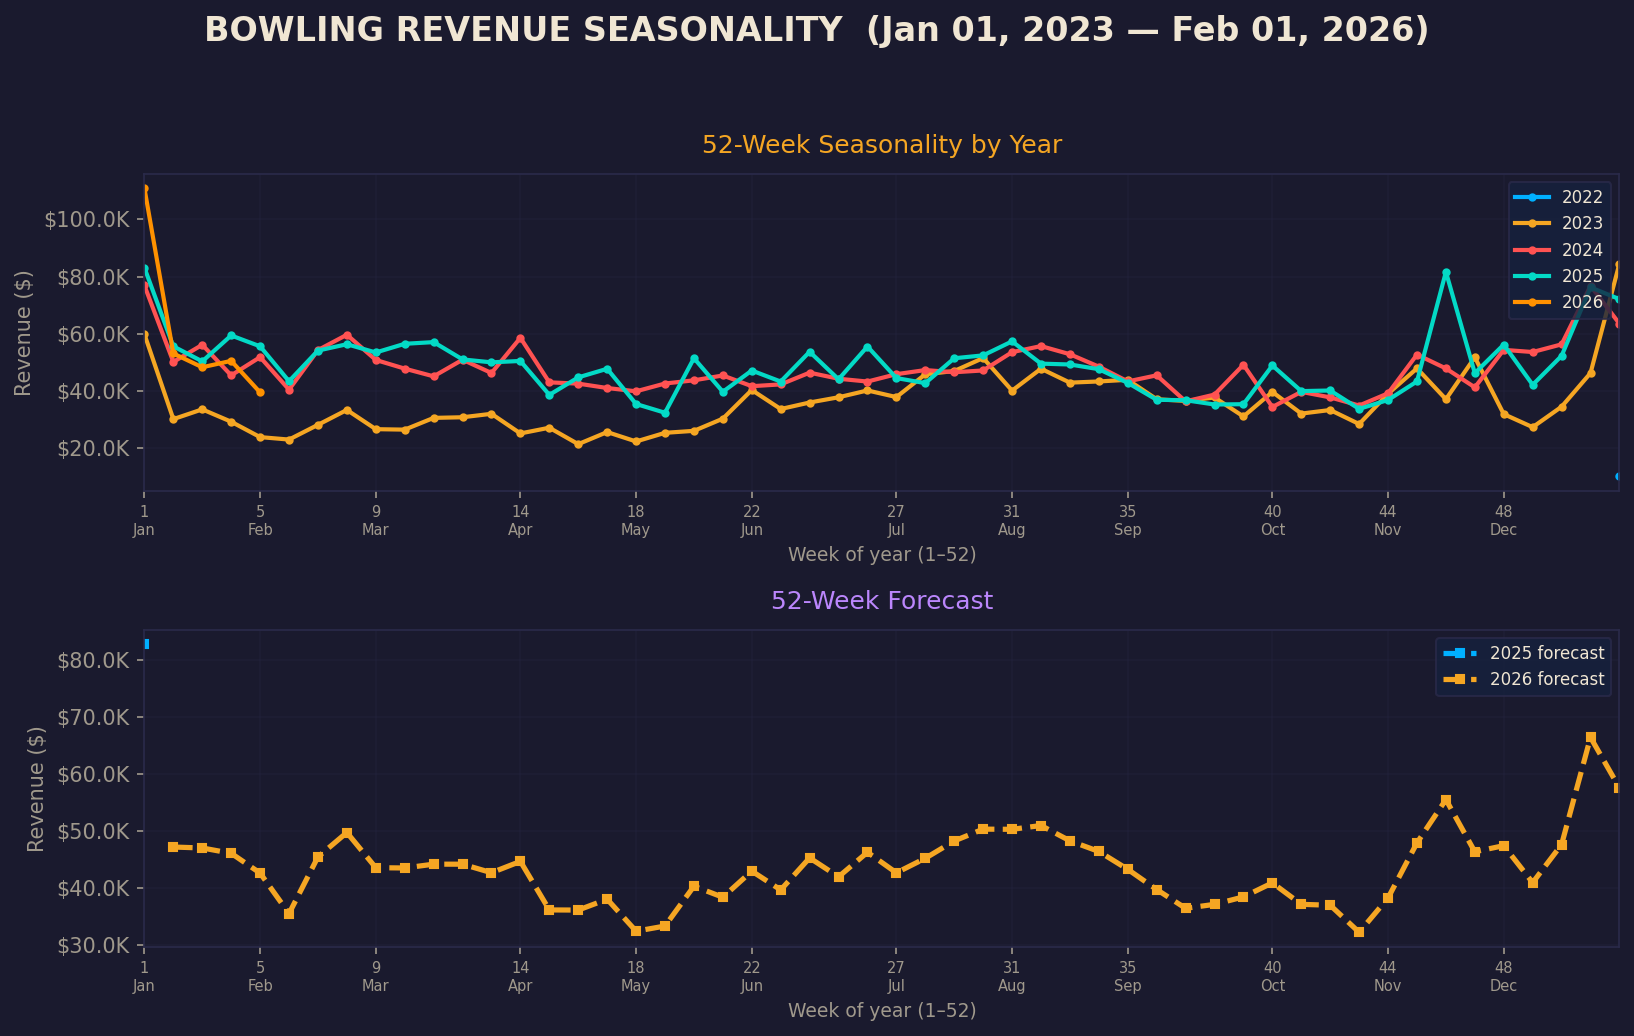
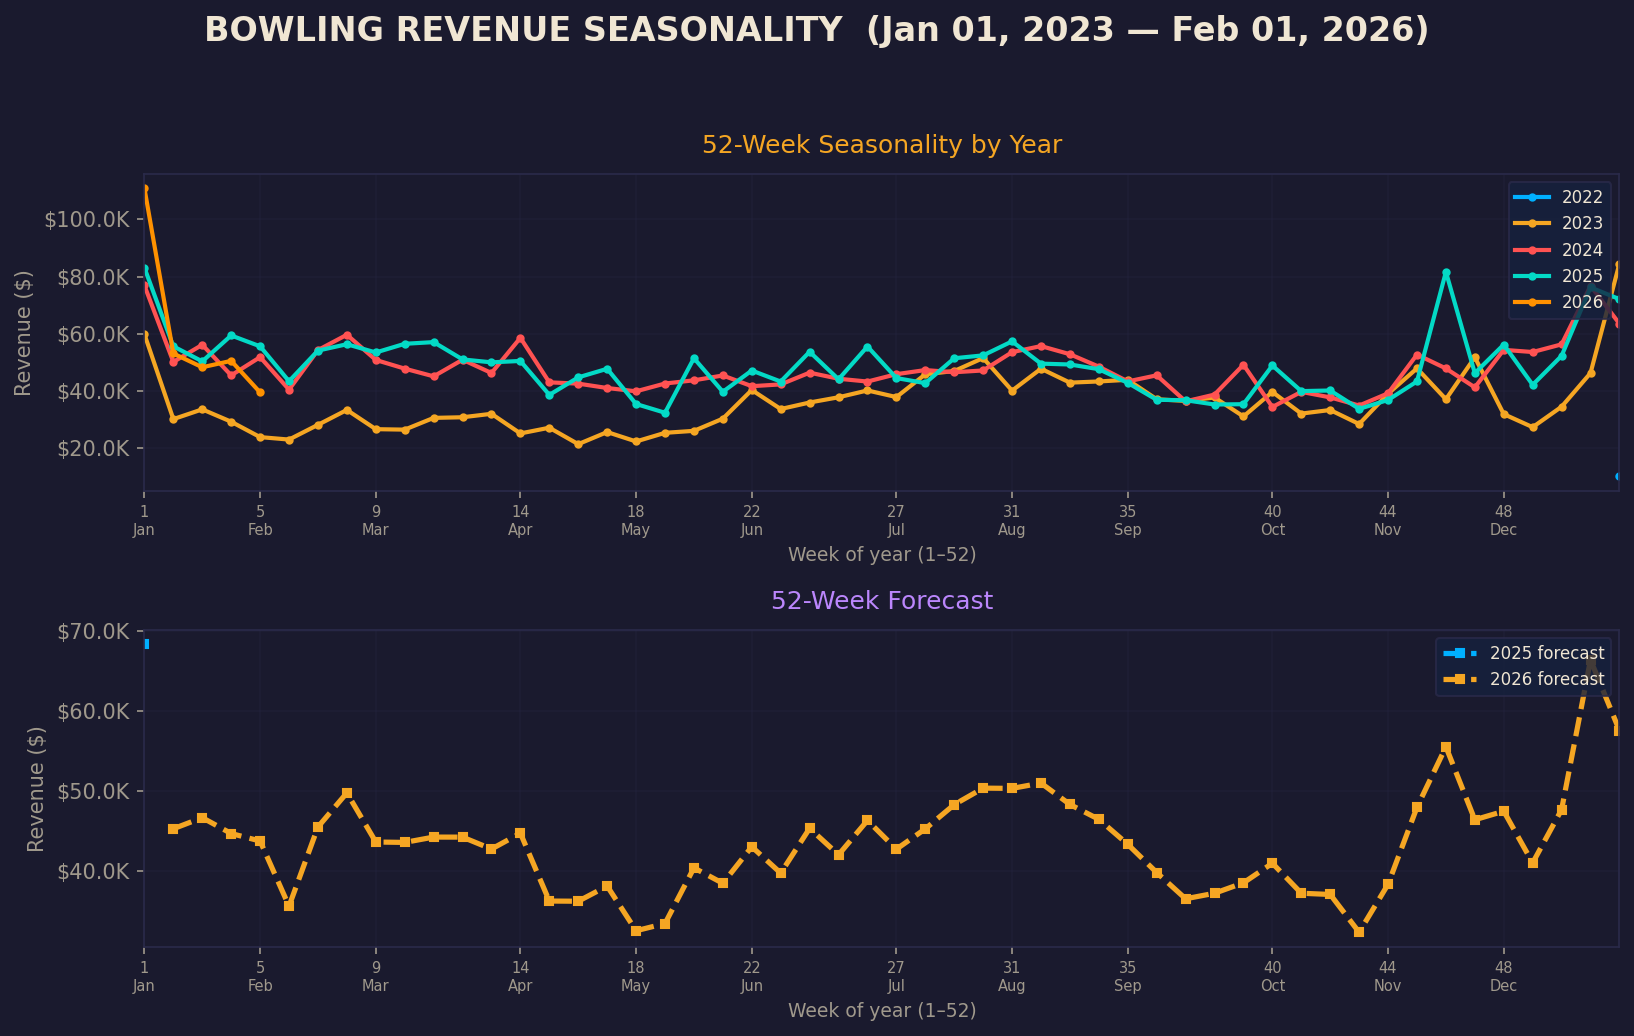
Fix forecast data leakage: exclude current year from seasonal mean

diff --git a/scripts/bowling_seasonality.py b/scripts/bowling_seasonality.py
@@ -132,14 +132,23 @@ def compute_weekly_forecast(weekly, by_year_week, num_future_weeks=4,
     If start_from_year is set, forecast a full 52 weeks from Jan 1 (week 1) of that year.
     Otherwise, forecast num_future_weeks starting from the week after last data.
     Returns list of (week_start, forecast_value).
+
+    IMPORTANT: When forecasting a year, we exclude that year from the seasonal mean
+    to avoid data leakage (using actuals to "predict" actuals).
     """
     week_starts = sorted(weekly.keys())
     if not week_starts:
         return []
 
-    # Fallback: flat 4-week moving average
-    recent_revs = [weekly[w] for w in week_starts[-lookback:]] if len(week_starts) >= lookback else list(weekly.values())
-    fallback_avg = statistics.mean(recent_revs) if recent_revs else 0
+    # Fallback: flat 4-week moving average. When forecasting a specific year,
+    # use only data from prior years to avoid leakage.
+    exclude_year = start_from_year
+    if exclude_year is not None:
+        historical_weeks = [w for w in week_starts if w.year < exclude_year]
+        fallback_revs = [weekly[w] for w in historical_weeks[-lookback:]] if historical_weeks else []
+    else:
+        fallback_revs = [weekly[w] for w in week_starts[-lookback:]] if len(week_starts) >= lookback else list(weekly.values())
+    fallback_avg = statistics.mean(fallback_revs) if fallback_revs else 0
 
     if start_from_year is not None:
         # Full year from Jan 1: start at Monday of week 1
@@ -154,10 +163,14 @@ def compute_weekly_forecast(weekly, by_year_week, num_future_weeks=4,
     for i in range(num_weeks):
         next_week = first_week + timedelta(days=7 * i)
         week_num = min(next_week.isocalendar()[1], 52)
+        forecast_year = next_week.year
 
-        # Collect historical revenue for this week-of-year across all years
+        # Collect historical revenue for this week-of-year across PRIOR years only.
+        # Exclude the forecast year to prevent data leakage.
         seasonal_values = []
-        for year_data in by_year_week.values():
+        for year, year_data in by_year_week.items():
+            if year >= forecast_year:
+                continue  # Don't use current/future year when predicting it
             if week_num in year_data and year_data[week_num] > 0:
                 seasonal_values.append(year_data[week_num])
 

diff --git a/scripts/bowling_sarima.py b/scripts/bowling_sarima.py
@@ -282,7 +282,8 @@ def main():
     )
     parser.add_argument(
         '--end', type=str, default=None,
-        help='End date YYYY-MM-DD (default: last date in data)'
+        help='End date YYYY-MM-DD for training data (default: last date in data). '
+             'Use e.g. --end 2025-12-31 to avoid training on 2026 when backtesting.'
     )
     parser.add_argument(
         '--output', default=DEFAULT_OUTPUT,
